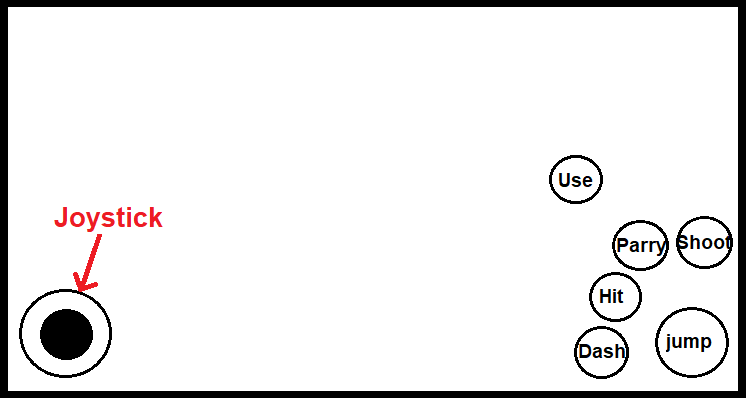
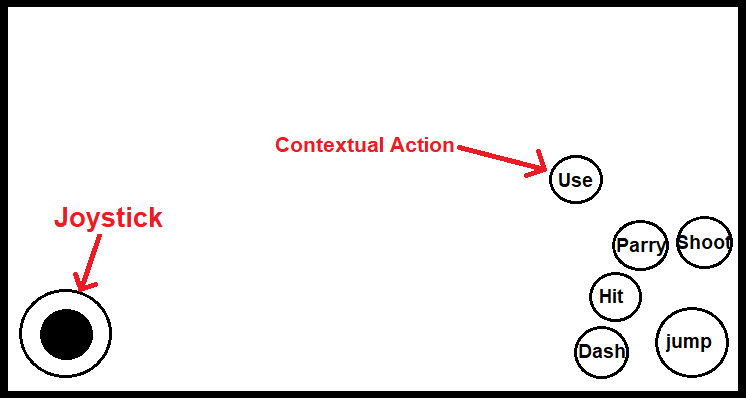
3.2 commit

Changed region(s): [[0.37, 0.3317, 0.7399, 0.4523]]

diff --git a/Game play/Systems/Combat Systems/Combos.md b/Game play/Systems/Combat Systems/Combos.md
@@ -12,6 +12,10 @@
 
 ---
 ## Attacks:
+
+> [!TODO] Input Buffering
+> - Add Input Buffering for the attacks
+
 ### 1) Simple Slash's Combo:
 - **Description:** Three consecutive Regular attacks:
 	1. First swing

diff --git a/Pitfalls.md b/Pitfalls.md
@@ -16,3 +16,6 @@
 > - where can he spend it?
 > - what can he buy with it?
 
+
+> [!Missing] There is no healing system or button
+>
